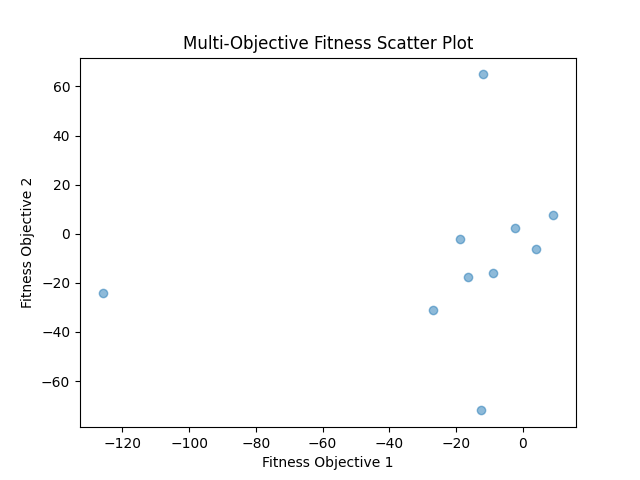
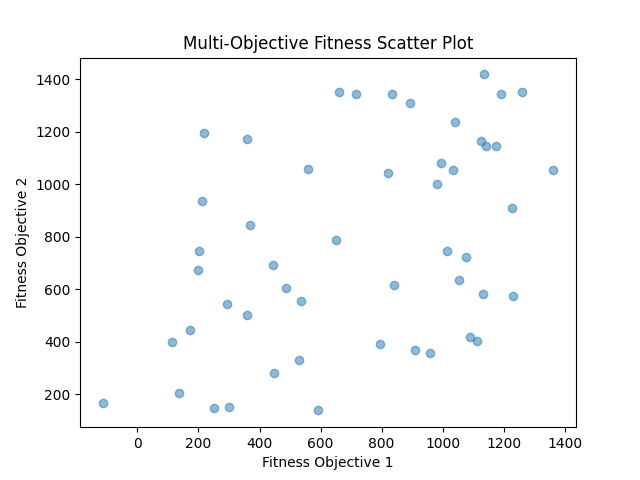
Challenge 2

diff --git a/Challenge2.py b/Challenge2.py
@@ -5,17 +5,10 @@ from typing import Optional
 import matplotlib.pyplot as plt
 import numpy as np
 
-<<<<<<< HEAD
 from evorob.algorithms.nsga import NSGAII
 from evorob.world.ant_multi_world import AntMultiWorld
 from evorob.world.ant_world import AntFlatWorld
 from evorob.world.robot.controllers.mlp import NeuralNetworkController
-=======
-from evorob.algorithms.nsga_sol import NSGAII
-from evorob.world.ant_multi_world import AntMultiWorld
-from evorob.world.ant_world import AntFlatWorld
-from evorob.world.robot.controllers.mlp_sol import NeuralNetworkController
->>>>>>> 8c1c7e34320e0087b4e9285a041007c5b24ea038
 
 """ 
     Multi-objective optimisation: Ant two-terrains
@@ -292,22 +285,15 @@ def run_evolution_nsga(
     nsga = NSGAII(
         population_size=population_size,
         n_opt_params=num_params,
-<<<<<<< HEAD
         n_parents= 4*population_size // 5,  # Keep 75% of population as parents for more selection pressure
         bounds=(-1, 1),
         mutation_prob=0.4,
-        crossover_prob=0.6,
+        crossover_prob=0.2,
         output_dir=ckpt_dir,
-        #pretrained_path= "results/20260319_105808_neural_controller_ckpts/15/x_best.npy",
+        #pretrained_path = None,
+        pretrained_path= "results/20260312_222048_neural_controller_ckpts/4999/x_best.npy",
         noise_std=0.2
-=======
-        n_parents=population_size,
-        bounds=(-1, 1),
-        mutation_prob=0.3,
-        crossover_prob=0.5,
-        output_dir=ckpt_dir,
->>>>>>> 8c1c7e34320e0087b4e9285a041007c5b24ea038
-    )
+    ) 
 
     # Evolution loop
     fitness_history = []
@@ -369,6 +355,7 @@ def run_evolution_nsga(
         print()
 
 
+
 def replay_checkpoint(checkpoint_path: str):
     np.random.seed(31)
 
@@ -384,6 +371,13 @@ def replay_checkpoint(checkpoint_path: str):
     best_flat_idx = np.argmax(multi_fitness[:, 0])
     best_ice_idx = np.argmax(multi_fitness[:, 1])
 
+    generalist_scores = (multi_fitness[:, 0])**2 + (multi_fitness[:, 1])**2
+    best_generalist_idx = np.argmax(generalist_scores)
+
+    print(
+        f"Best Generalist Individual: {best_generalist_idx} with fitness {multi_fitness[best_generalist_idx]}"
+    )
+
     print(
         f"Best Flat Terrain Individual: {best_flat_idx} with fitness {multi_fitness[best_flat_idx]}"
     )
@@ -397,7 +391,7 @@ def replay_checkpoint(checkpoint_path: str):
     plt.title("Multi-Objective Fitness Scatter Plot")
     plt.savefig("fitness_scatter.png")
 
-    n_evals = 5
+    n_evals = 0
     for idx_eval in range(n_evals):
         ant_ice_world = AntFlatWorld()
         ant_ice_world.generate_best_individual_video(
@@ -416,6 +410,15 @@ def replay_checkpoint(checkpoint_path: str):
             video_name=f"best_flat_individual_{idx_eval}.mp4",
             controller=ant_flat_world.geno2pheno(population[best_flat_idx]),
         )
+
+        ant_flat_world = AntFlatWorld()
+        ant_flat_world.generate_best_individual_video(
+            env=ant_flat_world.create_env(
+                robot_path="ant_flat_terrain.xml", width=800, height=608
+            ),
+            video_name=f"best_generalist_individual_{idx_eval}.mp4",
+            controller=ant_flat_world.geno2pheno(population[best_generalist_idx]),
+        )
         print(f"Generated videos for iteration {idx_eval + 1}/{n_evals}")
 
 
@@ -424,11 +427,7 @@ def plot_pareto_fronts_from_checkpoint(checkpoint_dir: str):
     Loads fitness data from a checkpoint directory and plots Pareto fronts using NSGA-II sorting.
     """
     # Load all generations' fitness data
-<<<<<<< HEAD
     fitness_path = f"{checkpoint_dir}/f.npy"
-=======
-    fitness_path = f"{checkpoint_dir}/full_f.npy"
->>>>>>> 8c1c7e34320e0087b4e9285a041007c5b24ea038
     try:
         all_fitness = np.load(fitness_path)
     except Exception as e:
@@ -475,40 +474,26 @@ if __name__ == "__main__":
     test_exercise_implementation()
 
     # Uncomment to run full NSGA-II evolution:
-<<<<<<< HEAD
     """
-=======
->>>>>>> 8c1c7e34320e0087b4e9285a041007c5b24ea038
     run_evolution_nsga(
-        num_generations=100,
-        population_size=10,
+        num_generations= 5000,
+        population_size=50,
         ckpt_interval=5,
         checkpoint_path=None,
         random_seed=42,
     )
-<<<<<<< HEAD
     """
 
     # Uncomment to replay your checkpoint
     
     replay_checkpoint(
-        checkpoint_path=r"results\20260324_121824_nsga_ckpts\99"
+        checkpoint_path="results/20260330_175527_nsga_ckpts/4305"
     )
 
+    """
     # Uncomment to plot Pareto fronts from checkpoint
     plot_pareto_fronts_from_checkpoint(
-        checkpoint_dir=r"results\20260324_121824_nsga_ckpts\99"
+        checkpoint_dir="results/20260330_175527_nsga_ckpts/4305"
     )
-   
-=======
-
-    # Uncomment to replay your checkpoint
-    # replay_checkpoint(
-    #     checkpoint_path="./results/nsga_multi_terrain_ckpt/99"
-    # )
-
-    # Uncomment to plot Pareto fronts from checkpoint
-    # plot_pareto_fronts_from_checkpoint(
-    #     checkpoint_dir="./results/nsga_multi_terrain_ckpt/99"
-    # )
->>>>>>> 8c1c7e34320e0087b4e9285a041007c5b24ea038
+    """
+    

diff --git a/evorob/world/envs/ant_flat.py b/evorob/world/envs/ant_flat.py
@@ -114,7 +114,7 @@ class AntFlatEnvironment(MujocoEnv):
         # 3. ctrl_cost = ...
         # Final reward is the sum of these three components.
         # Return: (reward, reward_info_dict)
-        forward_reward_weight = 2.0
+        forward_reward_weight = 1.0
         healthy_reward_weight = 1.0
         ctrl_cost_weight = 0.35
 
@@ -134,7 +134,7 @@ class AntFlatEnvironment(MujocoEnv):
         healthy_reward = healthy_reward_weight 
         ctrl_cost = ctrl_cost_weight * np.sum(action ** 2)
 
-        reward = forward_reward + healthy_reward - ctrl_cost  + dead_penalty
+        reward = forward_reward + healthy_reward - ctrl_cost # + dead_penalty
         reward_info = {
             "reward_forward": forward_reward,
             "reward_survive": healthy_reward,
